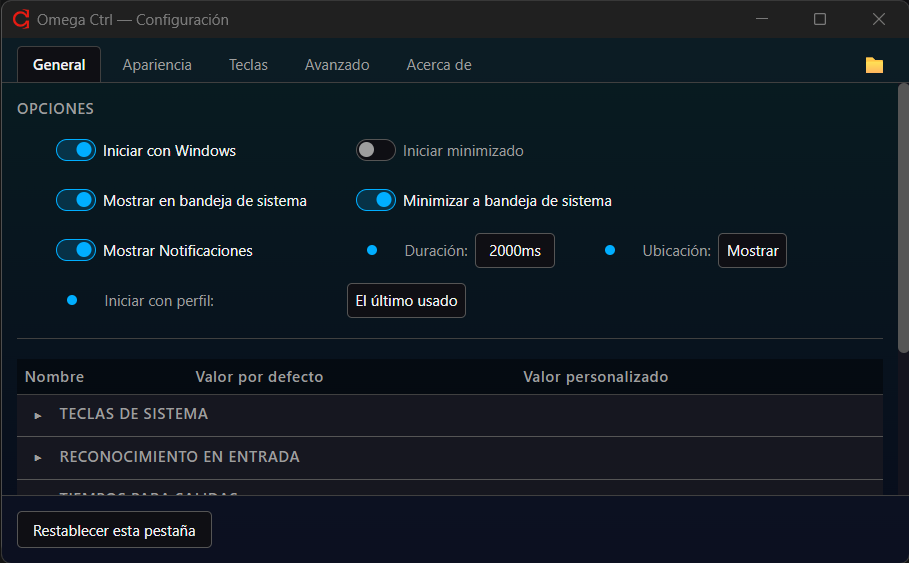
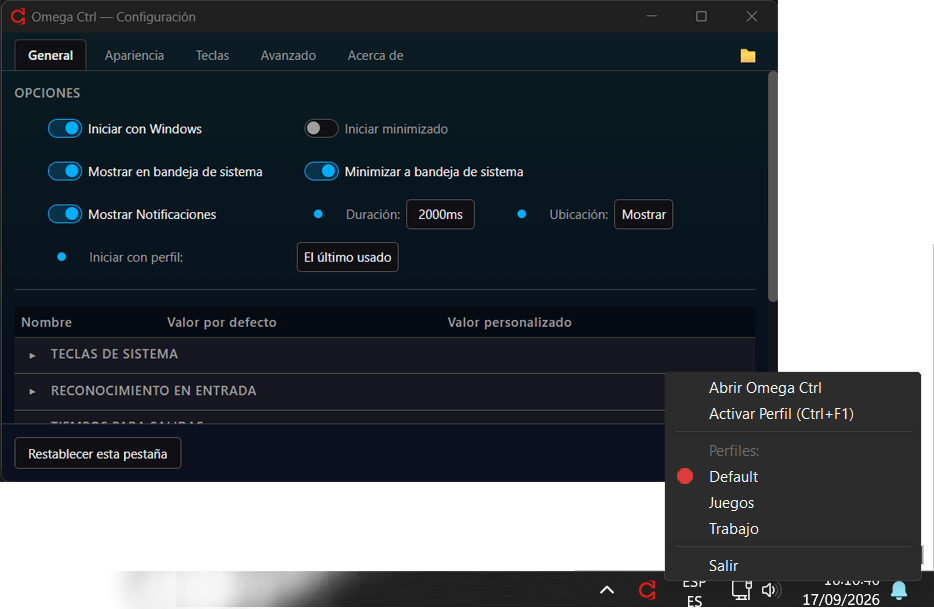
441

diff --git a/README.md b/README.md
@@ -1,48 +1,55 @@
 # Omega Ctrl
 
-Omega Ctrl es una eficiente y completa aplicación de escritorio para Windows (Tauri + Rust) que permite remapear teclado y mouse, crear macros, menús flotantes y un portapapeles ampliado, todo organizado en **perfiles**, con **filas** que puedes activar/desactivar y personalizar por aplicación. Todo eso con un mínimo consumo de ram (entre 5MB y 8MB aprox).
+Omega Ctrl es una eficiente y completa aplicación de escritorio para Windows (Tauri + Rust) que permite mediante pocos clicks y en menos de un minuto:
+
+- Remapear teclado y mouse
+- Crear Macros
+- Crear tus propios Menús flotantes
+- Tener múltiples Portapapeles
+  todo organizado en **perfiles**, con **filas** que puedes activar/desactivar y personalizar por aplicación. Todo eso con un mínimo consumo de ram (entre 5MB y 8MB aprox).
 
 ![Captura general de la ventana principal](docs/screenshots/main.png)
 
 ## Características
 
-**Una fila puede disparar:**
+- **Una fila puede disparar:**
+  - 🔠**Remapeo de teclado y mouse** (reasigna cualquier tecla o botón a otra tecla o combinación, con condición Simple / Mantenido / Turbo).
+  - 🧩**Macro** (grabación y reproducción de secuencias de teclado/mouse).
+  - 📂**Abrir archivo o aplicación** (con modo de ventana, instancias, o argumento personalizado).
+  - 🎵**Multimedia** (control de reproducción, volumen, etc.), con alcance global o solo dentro de la app activa.
+  - ⚡**Menú Express**: un menú flotente radial o en cuadrícula con botones propios, cada uno ejecutando su propia acción.
+  - 📋**Portapapeles ampliado**: pool de elementos copiados (texto/imagen), fijables y con límite configurable.
 
-- 🔠**Remapeo de teclado y mouse** (reasigna cualquier tecla o botón a otra tecla o combinación, con condición Simple / Mantenido / Turbo).
-- 🧩**Macro** (grabación y reproducción de secuencias de teclado/mouse).
-- 📂**Abrir archivo o aplicación** (con modo de ventana, instancias, o argumento personalizado).
-- 🎵**Multimedia** (control de reproducción, volumen, etc.), con alcance global o solo dentro de la app activa.
-- ⚡**Menú Express**: un menú flotente radial o en cuadrícula con botones propios, cada uno ejecutando su propia acción.
-- 📋**Portapapeles ampliado**: pool de elementos copiados (texto/imagen), fijables y con límite configurable.
-
-- **Barra lateral de ayuda**: Al abrirla, luego al poner brevemente el mouse sobre un objeto, se mostrará en ella una descripción del elemento y sus opciones configurables.
-- **Gestor de Coordenadas**: Guarda conjunto de coordenadas en relación a la pantalla, la ventana o el mouse. Para usarlas luego en macros o automatizar clicks.
 - **Perfiles**: cada perfil es un conjunto independiente de remapeos. Se pueden crear, clonar, renombrar, eliminar y activar en cualquier momento desde el panel lateral o la bandeja del sistema.
 - **Restricción por aplicación**: cada fila puede limitarse a una app específica (por ejecutable) o aplicar de forma global.
-- **Apariencia personalizable**: colores, opacidades y tamaños configurables por variable, con soporte de temas guardables/editables.
-- **Bandeja del sistema**: minimizar a bandeja, mostrar/ocultar ventana, cambiar de perfil desde el menú contextual del ícono.
 - **Dos motores de captura de entrada**:
   - **Interception** (requiere instalar el driver [Interception](http://www.oblita.com/interception)): más bajo nivel.
   - **Simple** (hooks nativos de WinAPI): no requiere instalar nada aparte, pensado para uso portable.
 
 ## Capturas de pantalla
 
-- **Selecciona opciones en popups y obtén ayuda en la barra lateral**:
+- **Selecciona opciones en popups y obtén ayuda en la barra lateral**: Al poner brevemente el mouse sobre un objeto, se mostrará en ella una descripción del elemento y sus opciones configurables.
+
   ![Editor de fila / Barra lateral de ayuda](docs/screenshots/selector_ayuda.png)
 
 - **Portapapeles con previsualizador de imágenes y crea Menú Express con atajos a cualquier fila creada**:
+
   ![Portapapeles con visor imagenes / Menú Express](docs/screenshots/portapapeles_menu.png)
 
-- **Selecciona y edita temas a tu gusto**:
+- **Apariencia personalizable**: colores, opacidades y tamaños configurables por variable, con soporte de temas guardables/editables.
+
   ![Selector y editor de temas](docs/screenshots/temas.png)
 
-- **Multiples opciones de configuración**:
+- **Multiples opciones de configuración**: puedes minimizar a bandeja de sistema, mostrar/ocultar ventana, cambiar de perfil desde el menú contextual del ícono.
+
   ![Ventana de Configuración — Opciones](docs/screenshots/opciones.png)
 
 - **Crea y edita Macros facilmente**:
+
   ![Editor de Macros](docs/screenshots/macros.png)
 
-- **Gestiona coordenadas, guárdalas y previsualízalas**:
+- **Gestor de Coordenadas**: Guarda y previsualiza conjuntos de coordenadas en relación a la pantalla, la ventana o el mouse. Úsalas luego en macros o para automatizar clicks.
+
   ![Gestor de Coordenadas](docs/screenshots/coordenadas.png)
 
 ## Requisitos
